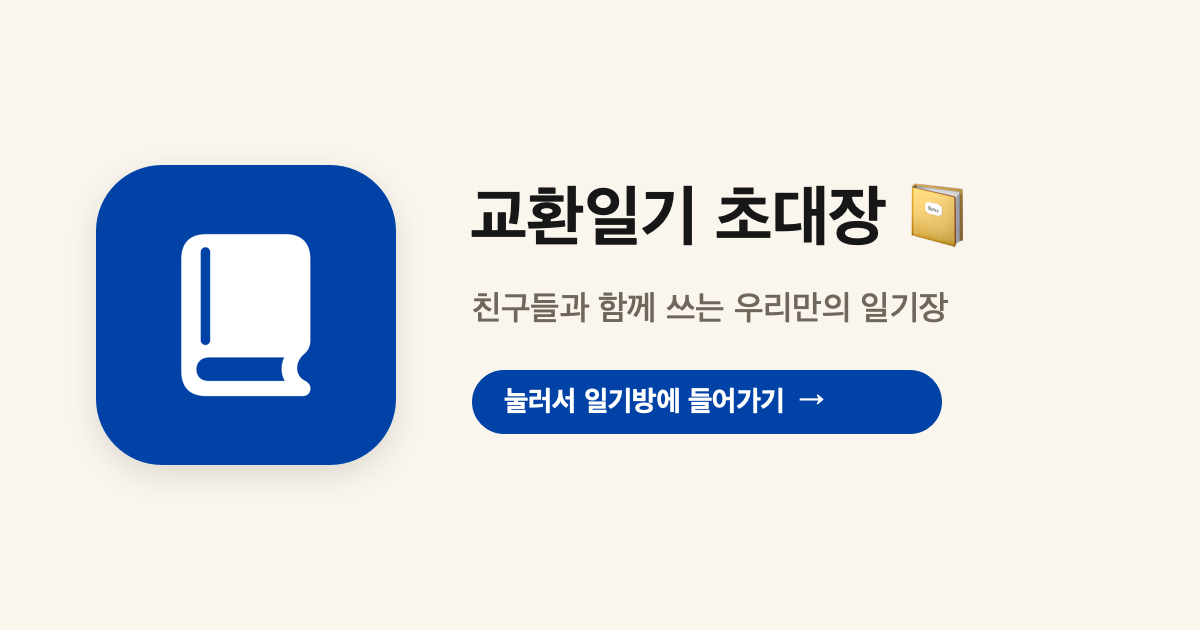
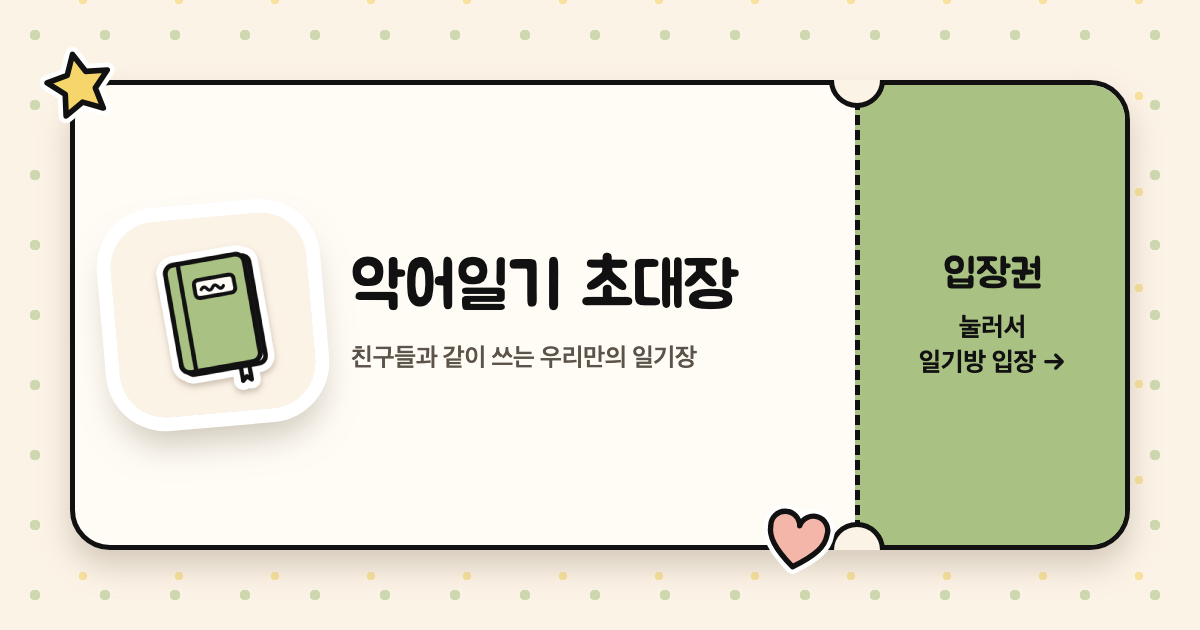
초대장 새 디자인(티켓), 새 초록 일기장 아이콘, 악어일기 이름
Claude-Session: https://claude.ai/code/session_01RpDVx5VgfjG1pH8rzSJ8NK

diff --git a/invite.html b/invite.html
@@ -3,60 +3,92 @@
 <head>
 <meta charset="utf-8">
 <meta name="viewport" content="width=device-width, initial-scale=1">
-<title>교환일기 초대장</title>
+<title>악어일기 초대장</title>
 <link rel="icon" href="icon.png">
-<!-- 카톡·문자·인스타가 링크를 이미지 카드로 그릴 때 읽는 태그. 주소 뒤 ?code=초대코드&room=방이름 은 아래 스크립트가 읽음. -->
+<link rel="apple-touch-icon" href="icon.png">
+<!-- 카톡·문자·인스타가 링크를 이미지 카드로 그릴 때 읽는 태그. 주소 뒤 ?code=초대코드&room=방이름 은 아래 스크립트가 읽음.
+     카드 그림 파일 이름을 바꾸면(invite-card-v2) 카톡이 예전 그림을 캐시에서 다시 쓰지 않음. -->
 <meta property="og:type" content="website">
-<meta property="og:site_name" content="교환일기">
-<meta property="og:title" content="교환일기 초대장 📔">
+<meta property="og:site_name" content="악어일기">
+<meta property="og:title" content="악어일기 초대장 💌">
 <meta property="og:description" content="친구가 같이 일기 쓰자고 초대했어요. 눌러서 일기방에 들어가요!">
-<meta property="og:image" content="https://cwlee0911.github.io/exchange-diary-support/invite-card.png">
+<meta property="og:image" content="https://cwlee0911.github.io/exchange-diary-support/invite-card-v2.png">
 <meta property="og:image:width" content="1200">
 <meta property="og:image:height" content="630">
 <meta property="og:url" content="https://cwlee0911.github.io/exchange-diary-support/invite.html">
 <meta name="twitter:card" content="summary_large_image">
-<meta name="twitter:title" content="교환일기 초대장 📔">
+<meta name="twitter:title" content="악어일기 초대장 💌">
 <meta name="twitter:description" content="친구가 같이 일기 쓰자고 초대했어요. 눌러서 일기방에 들어가요!">
-<meta name="twitter:image" content="https://cwlee0911.github.io/exchange-diary-support/invite-card.png">
+<meta name="twitter:image" content="https://cwlee0911.github.io/exchange-diary-support/invite-card-v2.png">
+<link rel="preconnect" href="https://fonts.googleapis.com"><link rel="preconnect" href="https://fonts.gstatic.com" crossorigin><link href="https://fonts.googleapis.com/css2?family=Jua&family=Nanum+Pen+Script&display=swap" rel="stylesheet">
 <style>
-  :root { --ink: #171717; --muted: #6f665c; --accent: #0042a6; --bg: #fbf6ed; --card: #ffffff; --line: #ece4d7; }
+  :root { --ink: #111112; --muted: #6f665c; --cream: #FCF3E7; --paper: #FFFCF6; --sage: #A9C283;
+          --sage-deep: #5F7A3E; --butter: #F6D66B; --blush: #F4B6A8; --line: rgba(17,17,18,.07); }
   * { box-sizing: border-box; }
-  body { margin: 0; background: var(--bg); color: var(--ink); font: 16px/1.6 -apple-system, BlinkMacSystemFont, "Apple SD Gothic Neo", "Noto Sans KR", sans-serif; }
-  main { max-width: 440px; margin: 0 auto; padding: 48px 20px 64px; text-align: center; }
-  .icon { width: 108px; height: 108px; border-radius: 26px; box-shadow: 0 10px 30px rgba(0,0,0,.12); }
-  .eyebrow { margin: 22px 0 6px; color: var(--accent); font-weight: 700; letter-spacing: .02em; }
-  h1 { font-size: 24px; line-height: 1.35; margin: 0 0 22px; word-break: keep-all; }
-  .code-card { background: var(--card); border: 1px solid var(--line); border-radius: 20px; padding: 16px 18px 18px; margin: 0 0 18px; }
-  .code-card .label { margin: 0 0 4px; font-size: 13px; color: var(--muted); font-weight: 600; }
-  .code { margin: 0; font-size: 30px; font-weight: 800; letter-spacing: .14em; font-variant-numeric: tabular-nums; user-select: all; }
-  .hint { margin: 6px 0 0; font-size: 12px; color: var(--muted); }
-  .btn { display: block; width: 100%; padding: 15px 18px; border-radius: 16px; font-weight: 700; font-size: 17px; text-decoration: none; margin: 10px 0; }
-  .btn.primary { background: var(--accent); color: #fff; }
-  .btn.secondary { background: var(--card); color: var(--accent); border: 1.5px solid rgba(0,66,166,.25); }
-  .small { font-size: 13px; color: var(--muted); margin: 22px 0 0; line-height: 1.6; word-break: keep-all; }
-  footer { margin-top: 40px; font-size: 12px; color: var(--muted); }
+  body { margin: 0; background: var(--cream); color: var(--ink);
+         font: 16px/1.6 -apple-system, BlinkMacSystemFont, "Apple SD Gothic Neo", "Noto Sans KR", sans-serif; }
+  .jua { font-family: "Jua", "Apple SD Gothic Neo", sans-serif; font-weight: 400; }
+  .pen { font-family: "Nanum Pen Script", cursive; }
+  .sticker-icon { width: 112px; height: 112px; border-radius: 27px; display: block;
+                  box-shadow: 0 0 0 7px #fff, 0 12px 22px 2px rgba(156,143,122,.45); }
+  .btn { display: block; width: 100%; padding: 14px 18px; border-radius: 999px; font-weight: 700; font-size: 17px;
+         text-decoration: none; margin: 12px 0; border: 3px solid var(--ink); color: var(--ink); text-align: center; }
+  .btn.primary { background: var(--sage); }
+  .btn.secondary { background: #fff; }
+  .small { font-size: 13px; color: var(--muted); margin: 20px 0 0; line-height: 1.6; word-break: keep-all; }
+  footer { margin-top: 36px; font-size: 12px; color: var(--muted); }
   footer a { color: var(--muted); }
+  .code { margin: 0; font-size: 28px; font-weight: 800; letter-spacing: .12em; font-variant-numeric: tabular-nums;
+          user-select: all; cursor: pointer; word-break: break-all; }
+  .hint { margin: 4px 0 0; font-size: 12px; color: var(--muted); }
+  .hl { background: linear-gradient(transparent 58%, rgba(169,194,131,.75) 58%, rgba(169,194,131,.75) 92%, transparent 92%);
+        padding: 0 2px; }
+
+  body { background-color: var(--cream);
+         background-image: radial-gradient(circle, rgba(169,194,131,.55) 3px, transparent 3.5px),
+                           radial-gradient(circle, rgba(246,214,107,.6) 2.5px, transparent 3px);
+         background-size: 46px 46px, 62px 62px; background-position: 0 0, 23px 31px; }
+  main { max-width: 420px; margin: 0 auto; padding: 40px 22px 56px; text-align: center; }
+  .ticket { position: relative; background: var(--paper); border: 3px solid var(--ink); border-radius: 26px;
+            box-shadow: 0 10px 20px rgba(156,143,122,.35); margin: 8px 0 18px; }
+  .ticket .top { padding: 26px 22px 20px; }
+  .ticket .stub { padding: 16px 22px 20px; background: var(--sage); border-radius: 0 0 23px 23px; }
+  .perf { position: relative; height: 0; border-top: 3px dashed var(--ink); margin: 0 22px; }
+  .perf::before, .perf::after { content: ""; position: absolute; top: -17px; width: 30px; height: 30px; border-radius: 50%;
+            background: var(--cream); border: 3px solid var(--ink); }
+  .perf::before { left: -41px; clip-path: inset(0 0 0 50%); }
+  .perf::after { right: -41px; clip-path: inset(0 50% 0 0); }
+  .ticket .sticker-icon { margin: 0 auto; transform: rotate(-4deg); width: 96px; height: 96px; border-radius: 23px; }
+  .eyebrow { margin: 18px 0 2px; font-size: 18px; color: var(--sage-deep); }
+  h1 { font-size: 28px; line-height: 1.3; margin: 0; word-break: keep-all; }
+  .stub .label { margin: 0 0 2px; font-size: 17px; }
+  .doodle { position: absolute; }
 </style>
 </head>
 <body>
 <main>
-  <img class="icon" src="icon.png" alt="교환일기 앱 아이콘">
-  <p class="eyebrow">교환일기 초대장</p>
-  <h1 id="title">친구가 같이 일기 쓰자고 초대했어요</h1>
-
-  <div class="code-card">
-    <p class="label">초대 코드</p>
-    <p class="code" id="code">— — —</p>
-    <p class="hint" id="copyHint">코드를 누르면 복사돼요</p>
+  <div class="ticket">
+    <svg viewBox="0 0 64 64" width="40" height="40" class="doodle" style="left:-16px;top:-18px;transform:rotate(-12deg)"><path d="M32 7l7.6 15.5 17 2.5-12.3 12 2.9 17L32 46l-15.2 8 2.9-17-12.3-12 17-2.5z" fill="#F6D66B" stroke="#fff" stroke-width="12" stroke-linejoin="round"/><path d="M32 7l7.6 15.5 17 2.5-12.3 12 2.9 17L32 46l-15.2 8 2.9-17-12.3-12 17-2.5z" fill="#F6D66B" stroke="#111112" stroke-width="4.5" stroke-linejoin="round"/></svg><svg viewBox="0 0 64 64" width="38" height="38" class="doodle" style="right:-14px;top:70px;transform:rotate(10deg)"><path d="M32 54C14 41 8 32 8 23a12 12 0 0 1 24-4 12 12 0 0 1 24 4c0 9-6 18-24 31z" fill="#F4B6A8" stroke="#fff" stroke-width="12" stroke-linejoin="round"/><path d="M32 54C14 41 8 32 8 23a12 12 0 0 1 24-4 12 12 0 0 1 24 4c0 9-6 18-24 31z" fill="#F4B6A8" stroke="#111112" stroke-width="4.5" stroke-linejoin="round"/></svg>
+    <div class="top">
+      <img class="sticker-icon" src="icon.png" alt="악어일기 앱 아이콘">
+      <p class="eyebrow jua">악어일기 초대장</p>
+      <h1 class="jua" id="title">친구가 같이 일기 쓰자고 초대했어요</h1>
+    </div>
+    <div class="perf"></div>
+    <div class="stub">
+      <p class="label jua">입장 코드</p>
+      <p class="code" id="code">— — —</p>
+      <p class="hint" id="copyHint" style="color:#2f3a22">코드를 누르면 복사돼요</p>
+    </div>
   </div>
 
   <a class="btn primary" id="open" href="#">앱에서 열기</a>
-  <a class="btn secondary" href="https://apps.apple.com/app/id6831194222">App Store에서 교환일기 받기</a>
+  <a class="btn secondary" href="https://apps.apple.com/app/id6831194222">App Store에서 악어일기 받기</a>
 
-  <p class="small">앱을 새로 받았다면 Apple로 로그인한 뒤 이 페이지로 돌아와 <strong>앱에서 열기</strong>를 다시 누르거나, 앱에서 화면 위 방 이름 → <strong>새 일기방 / 참여하기</strong> → <strong>코드로 참여하기</strong>에 위 코드를 넣어요.</p>
+  <p class="small">앱을 새로 받았다면 로그인한 뒤 이 페이지로 돌아와 <strong>앱에서 열기</strong>를 다시 누르거나, 앱에서 화면 위 방 이름 → <strong>새 일기방 / 참여하기</strong> → <strong>코드로 참여하기</strong>에 위 코드를 넣어요.</p>
   <p class="small">아이폰·아이패드 전용이에요.</p>
 
-  <footer><a href="index.html">교환일기 지원</a> · <a href="privacy.html">개인정보 처리방침</a></footer>
+  <footer><a href="index.html">악어일기 지원</a> · <a href="privacy.html">개인정보 처리방침</a></footer>
 </main>
 <script>
   const params = new URLSearchParams(location.search);
